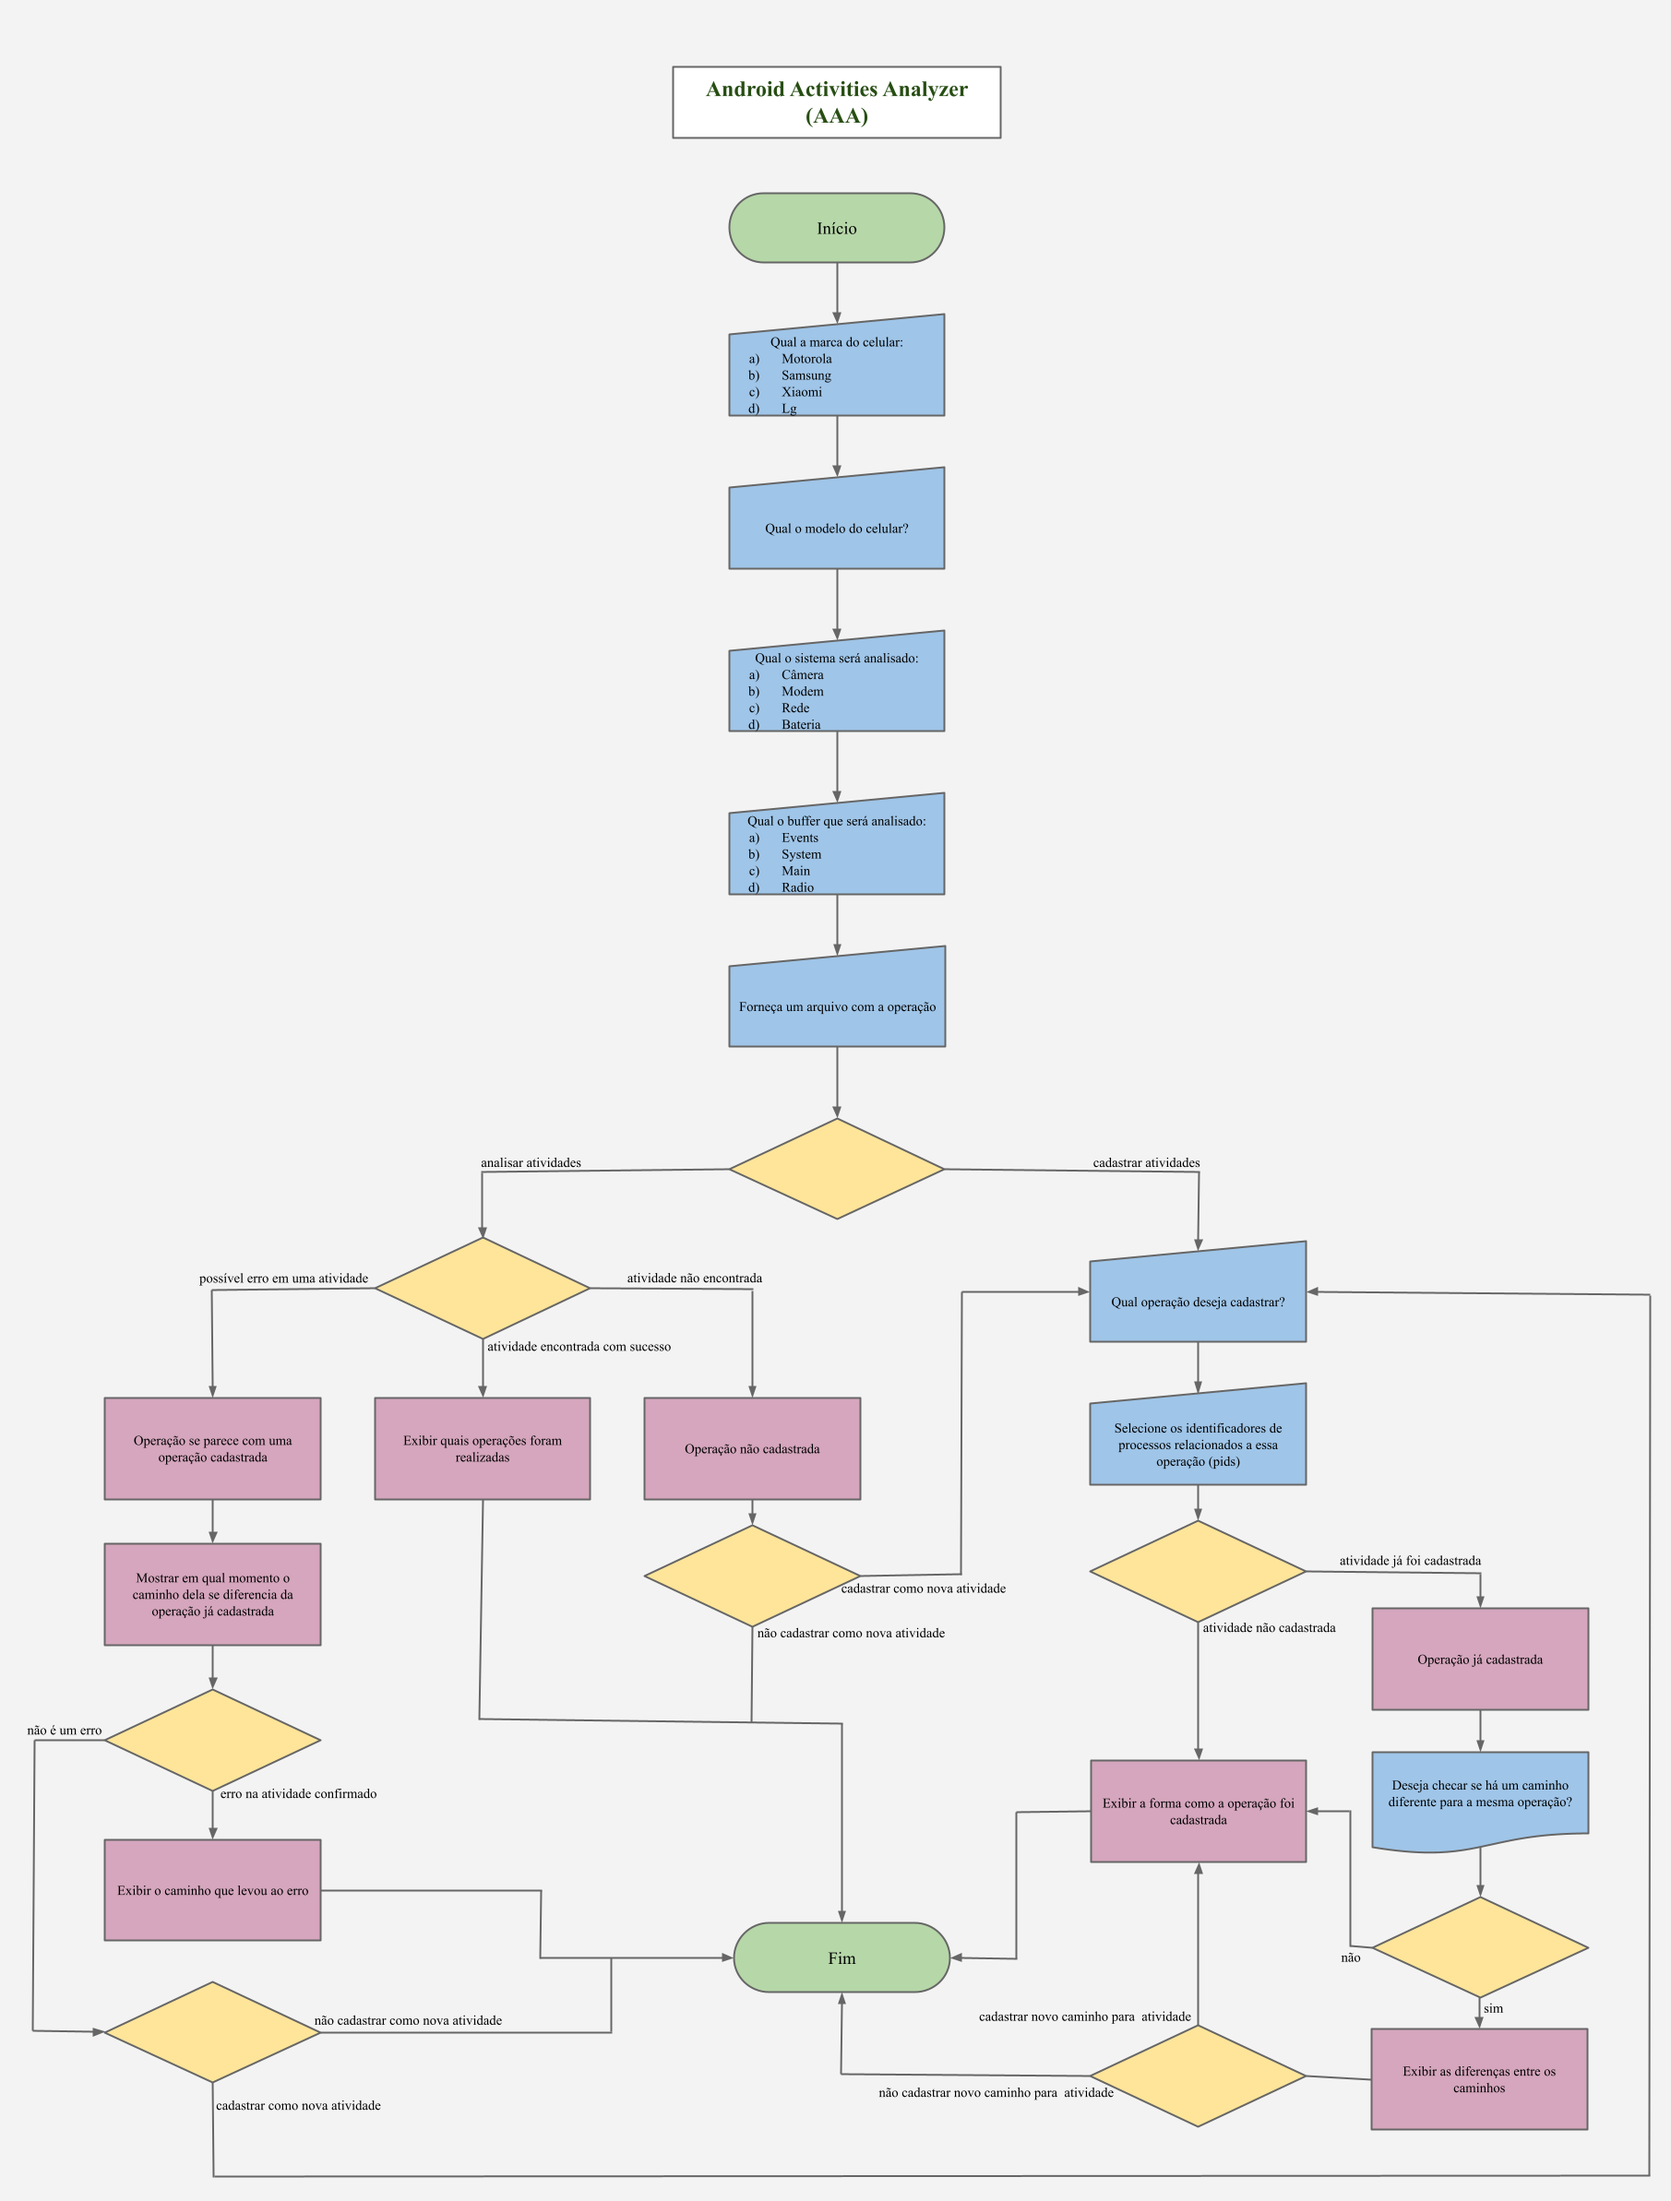
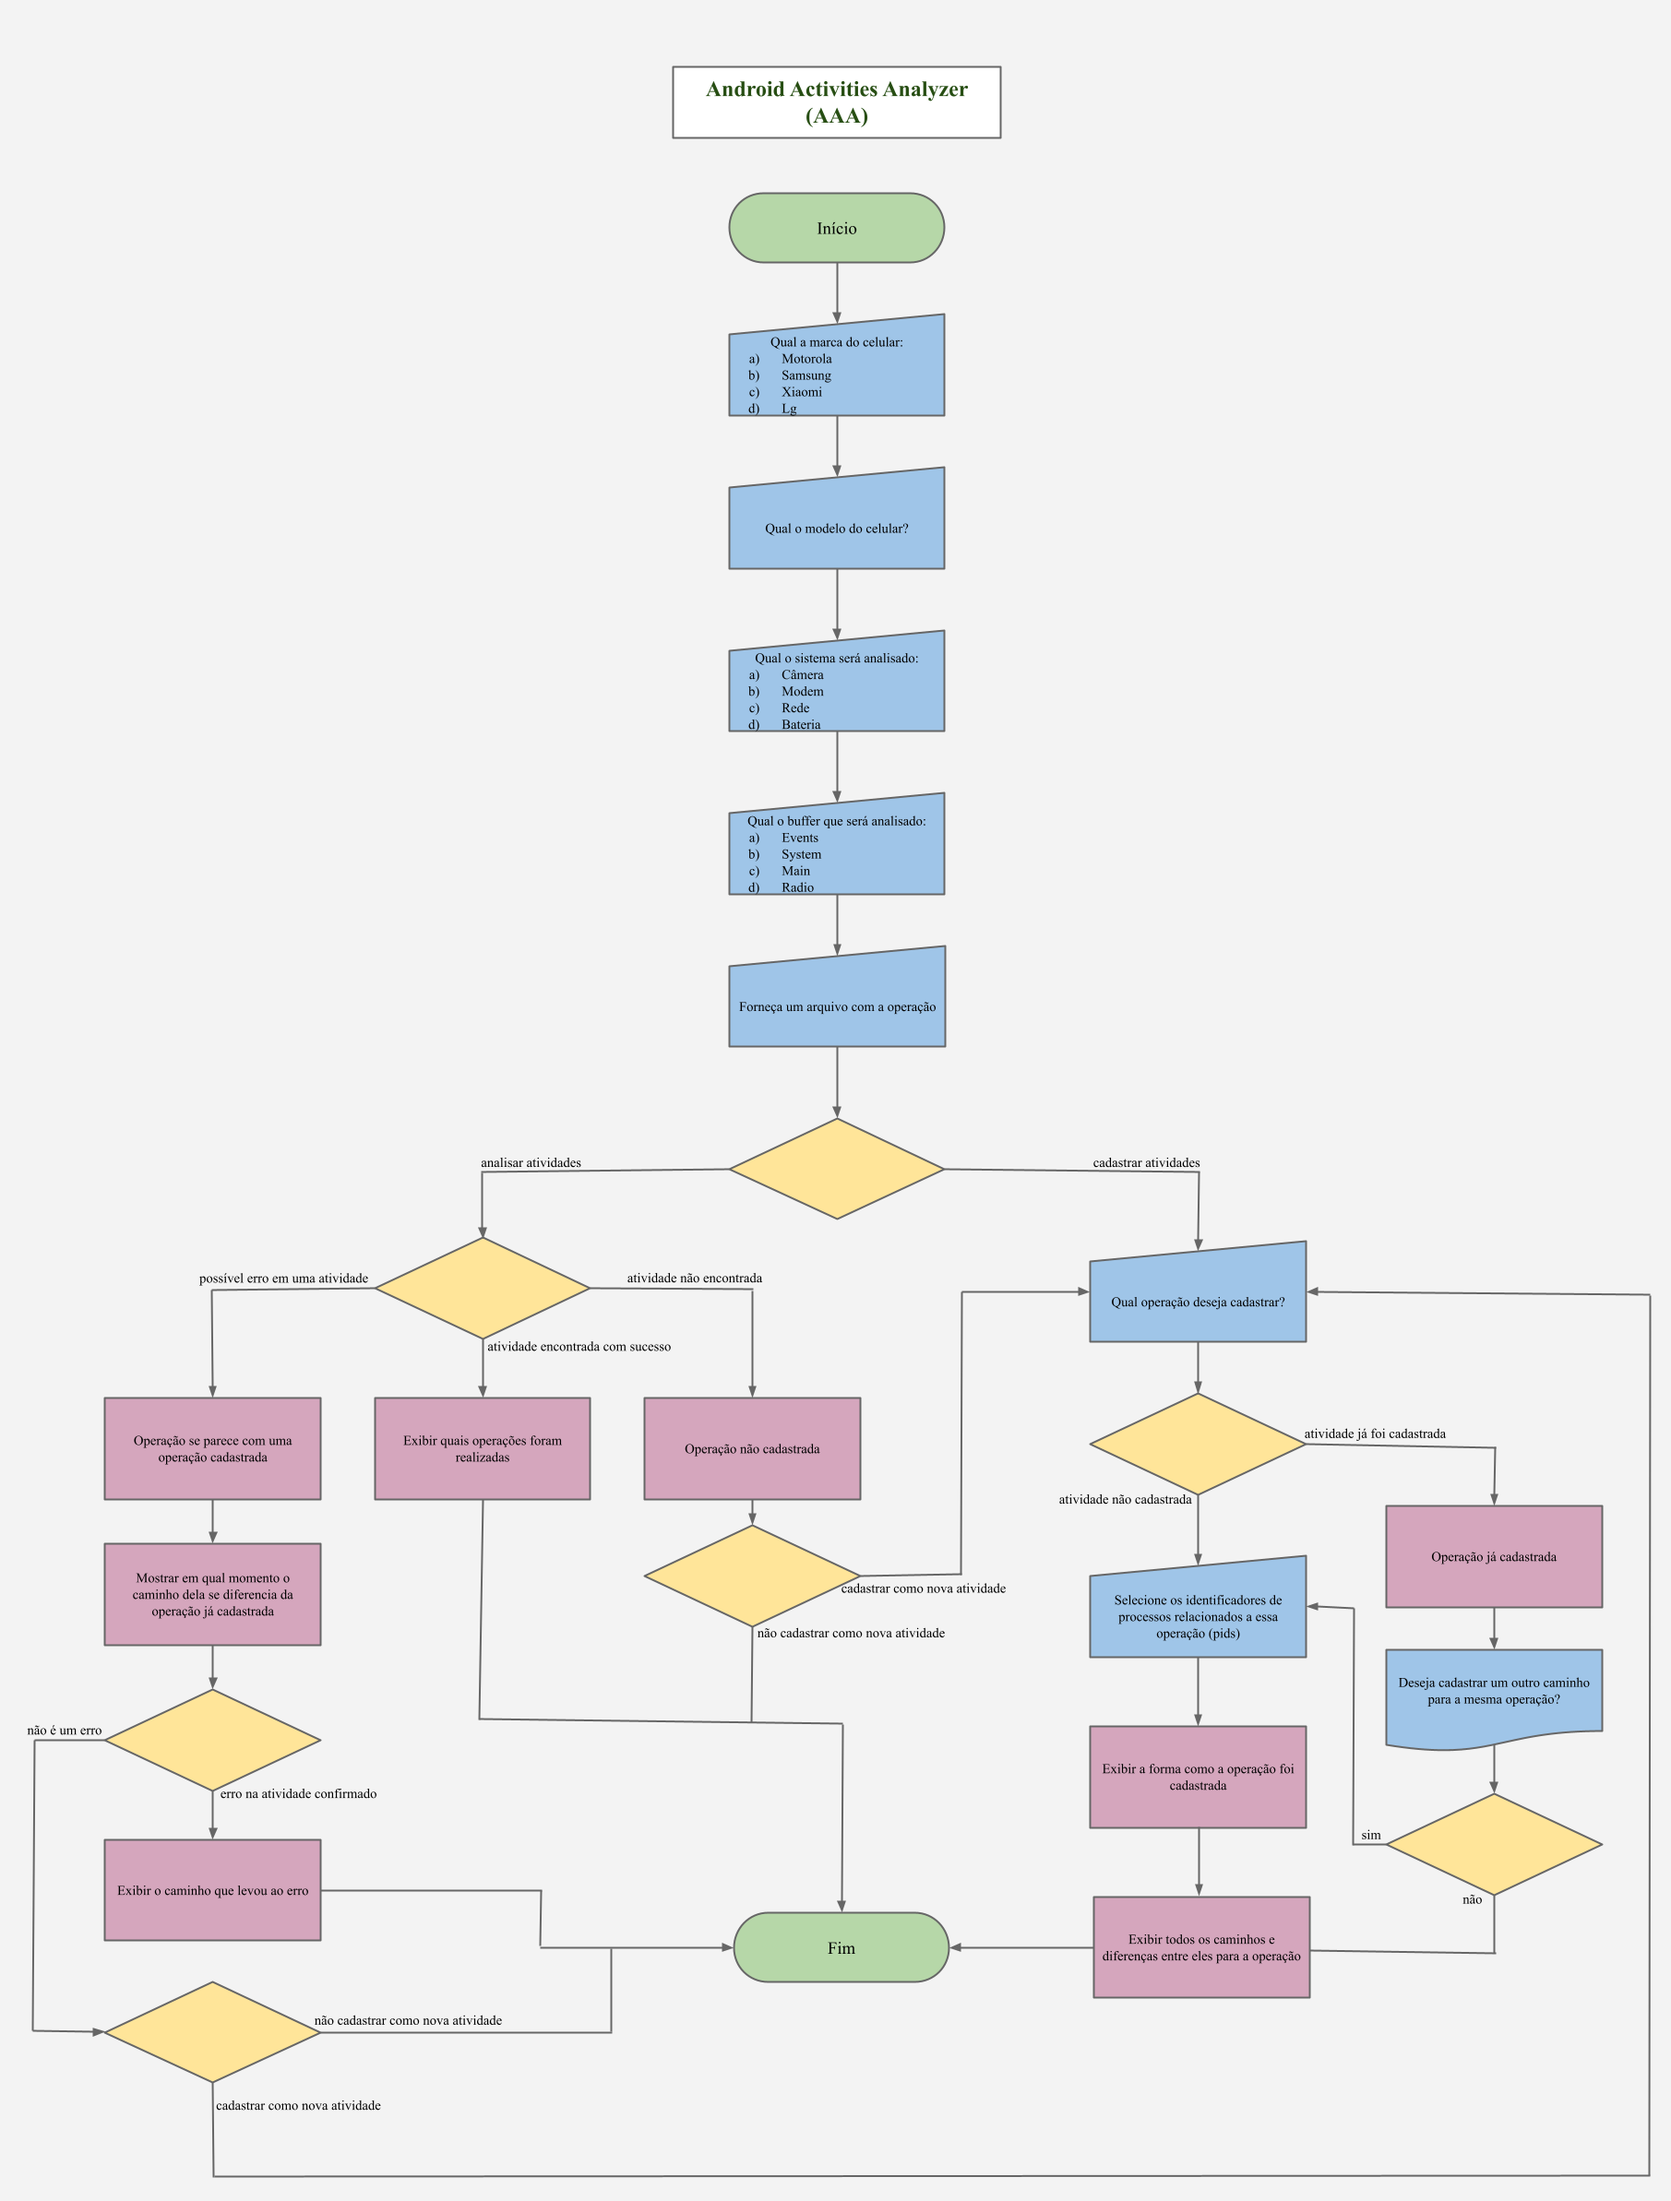
interface can show how activities was registered

Changed region(s): [[0.6494, 0.6203, 0.9586, 0.9925], [0.4329, 0.8684, 0.5875, 0.9304]]

diff --git a/AndroidActivitiesAnalyzer/bin/interface.py b/AndroidActivitiesAnalyzer/bin/interface.py
@@ -12,8 +12,7 @@ import os
 import time
 import traceback
 from turtle import st
-
-from requests import patch
+from igraph import *
 
 # Building screens
 ##################################################################################
@@ -51,7 +50,7 @@ frame.grid_columnconfigure(2, weight=1)
 label = tk.Label(frame, relief = FLAT, text ='Do you want to start Android Activities Analyzer', font = ("Courier", 18), background="#86acac") 
 label.grid(row = 0, column = 0, sticky = N, ipady = 10)
 
-button = tk.Button(frame, background="#86acac", font = ("Courier", 14), text = 'Begin', command = lambda : eigth_screen(root, frame, user_choices))
+button = tk.Button(frame, background="#86acac", font = ("Courier", 14), text = 'Begin', command = lambda : second_screen(root, frame, user_choices))
 button.grid(row = 1, column = 0)
 
 ## 2. Second Screen 
@@ -316,6 +315,7 @@ def sixth_step_algorithm_part2 (mensagem, user_choices, frame):
 
 ## 9. Ninth Screen 
 ##################################################################################
+#https://blog.teclado.com/tkinter-scrollable-frames/
 class ScrollableFrame(Frame):
     def __init__(self, container, *args, **kwargs):
         super().__init__(container, *args, **kwargs)
@@ -341,10 +341,16 @@ class ScrollableFrame(Frame):
         canvas.grid(row = 0, column = 0, sticky = "nsew")
         scrollbar.grid(row = 0, column = 0, sticky = "nsw")
 
-def show_choices(root, frame):
-    print("oi")
+def show_choices(root, frame, ck_var):
+    pids = ""
+    for var in ck_var:
+        var_aux = str(var.get())
+        if "-1" not in var_aux:
+            pids = pids + var_aux + ","
+    pids = pids[:-1]
+    messagebox.showinfo('pop-up info', "Selected pIDs:\n" + pids)
 
-def register_activity(root, frame, ck_var, user_choices):
+def register_activity(root, frame, ck_var, user_choices, label, v_scroll):
     pids = ""
     path = "../config/activities"
     for choice in user_choices:
@@ -357,17 +363,17 @@ def register_activity(root, frame, ck_var, user_choices):
     pids = pids[:-1]
 
     command = "./saida.out 4 " + path + " " + pids
-    print(command)
     stream = os.popen(command)
     output = stream.read()
 
     if "program error" in output:
         messagebox.showerror('pop-up error', str(output))
         finish_program(root, frame)
+    else:
+        tenth_screen (root, frame, user_choices, label, v_scroll)
 
 def ninth_screen (root, old_frame, user_choices):
     old_frame.destroy()
-    ck_button = []
     ck_var = []
     count = 0
 
@@ -381,9 +387,9 @@ def ninth_screen (root, old_frame, user_choices):
     frame.grid(row = 2, column = 2, sticky = "sew")
     frame.grid_columnconfigure(0, weight=1)
     frame.grid_columnconfigure(1, weight=1)
-    button = tk.Button(frame, text = 'Next', font = ("Courier", 12), command = lambda : register_activity(root, frame, ck_var, user_choices))
+    button = tk.Button(frame, text = 'Next', font = ("Courier", 12), command = lambda : register_activity(root, frame, ck_var, user_choices, label, v_scroll))
     button.grid(row = 0, column = 1, sticky = "sew")
-    button = tk.Button(frame, text = 'Show choices', font = ("Courier", 12), command = lambda : show_choices(root, frame))
+    button = tk.Button(frame, text = 'Show pIDs choices', font = ("Courier", 12), command = lambda : show_choices(root, frame, ck_var))
     button.grid(row = 0, column = 0, sticky = "sew")
 
     v_scroll = ScrollableFrame(root)
@@ -413,6 +419,132 @@ def ninth_screen (root, old_frame, user_choices):
             text_ck_button = text_ck_button + "\n" + line
         line = file.readline()
 
+## 10. Tenth Screen 
+##################################################################################
+def tenth_screen (root, old_frame, user_choices, old_label, old_v_scroll) :
+    old_frame.destroy()
+    old_label.destroy()
+    old_v_scroll.destroy()
+
+    path = "../config/activities/"
+    for choice in user_choices:
+        path = path + choice + "/"
+
+    frame = tk.LabelFrame(root, relief = FLAT, background="#86acac")
+    frame.grid(row = 0, column = 1, columnspan = 2, sticky = tk.NSEW)
+    frame.grid_columnconfigure(0, weight=1)
+    frame.grid_columnconfigure(1, weight=1)
+    frame.grid_columnconfigure(2, weight=1)
+
+    frame.grid_rowconfigure(0, weight=0)
+    frame.grid_rowconfigure(1, weight=0)
+    frame.grid_rowconfigure(2, weight=1)
+
+    label = Label(frame, text ='The operation was registered:', font = ("Courier", 18), background="#86acac") 
+    label.grid(row = 0, column = 0, sticky = N, ipady = 10)
+    
+    frame_button = tk.LabelFrame(frame, relief = FLAT, background="#86acac")
+    frame_button.grid(row = 1, column = 0, sticky = "nsew")
+    frame_button.grid_columnconfigure(0, weight=1)
+    frame_button.grid_columnconfigure(1, weight=1)
+
+    button_1 = tk.Button(frame_button, background="#86acac", font = ("Courier", 14), text = 'Show dir tree files', command = lambda : list_files(root, frame, path))
+    button_1.grid(row = 1, column = 0, sticky = "nsew", pady = 2, padx = 10)
+
+    button_2 = tk.Button(frame_button, background="#86acac", font = ("Courier", 14), text = 'Show dir tree graph', command = lambda : print_activity_paths(path, user_choices))
+    button_2.grid(row = 1, column = 1, sticky = "nsew", pady = 2, padx = 10)
+
+    button_3 = tk.Button(frame, background="#86acac", font = ("Courier", 14), text = 'Next', command = lambda : print_activity_paths(path, user_choices))
+    button_3.grid(row = 1, column = 1, sticky = "nsew", pady = 2, padx = 10)
+
+def print_activity_paths(path, user_choices):
+    names = []
+    numbers = []
+    edges = []
+    flag = 0
+
+    names.append(user_choices[-1])
+    numbers.append(flag)
+    dir = activity_paths(path, flag, names, numbers, edges)
+    graph = Graph(n=dir[0], edges=dir[3], directed=True)
+    
+
+    graph.vs["name"] = dir[1]
+    graph.vs["label"] = graph.vs["name"]
+    graph.es["color"] = ["gray"]
+    graph.vs["color"] = ["pink"]
+    graph.vs[0]["color"] = "blue"
+    graph.vs["font"] = "Courier bold"
+    
+    for edge in edges:
+        if 0 in edge:
+            graph.vs[graph.get_eid(edge[0], edge[1]) + 1]["color"] = "lightblue"
+    
+    visual_style = {}
+    visual_style["layout"] = graph.layout_reingold_tilford_circular()
+    visual_style["edge_color"] = graph.es["color"]
+    visual_style["autocurve"] = False
+    visual_style["vertex_size"] = 30
+    visual_style["vertex_label_color"] = "black"
+    visual_style["vertex_label_dist"] = 2
+    visual_style["edge_label_dist"] = -1
+    visual_style["edge_curved"] = 0
+    visual_style["margin"] = 40
+
+    p = Plot(background=(255,255,255), bbox=(1250, 1250), target=None)
+    p.add(graph, **visual_style, bbox=(0,0,1250, 1250), target=None)
+    p.show()
+
+def activity_paths(path, flag, names, numbers, edges) :
+    command = "ls -l " + path + " | grep ^d | rev | cut -d \" \" -f 1 | rev"
+    stream = os.popen(command)
+    output = stream.read()
+
+    ret = []
+    flag_dir = flag
+    dir = ""
+    for out in output :
+        if "\n" not in out:
+            dir = dir + out
+        else:
+            flag += 1
+            names.append(dir)
+            numbers.append(flag)
+            edge = (flag_dir, flag)
+            edges.append(edge)
+            new_path = path + dir + "/"
+
+            ret = activity_paths(new_path, flag, names, numbers, edges)
+            flag = ret[0]
+            names = ret[1]
+            numbers  = ret[2]
+            edges = ret[3]
+            dir = ""
+    
+    ret = []
+    ret.append(flag)
+    ret.append(names)
+    ret.append(numbers)
+    ret.append(edges)
+    return ret
+
+#https://stackoverflow.com/questions/9727673/list-directory-tree-structure-in-python
+def list_files(root, frame, startpath):
+    listbox = Listbox(frame)
+    scrollbar = Scrollbar(frame)
+    listbox.grid(row = 2, column = 0, sticky = "nsew")
+    scrollbar.grid(row = 2, column = 0, sticky = "nse")
+
+    for root, dirs, files in os.walk(startpath):
+        level = root.replace(startpath, '', 1).count(os.sep)
+        indent = ' ' * 6 * (level)
+        txt = str('{}{}/'.format(indent, os.path.basename(root)))
+        listbox.insert(END, txt)
+        
+    listbox.config(yscrollcommand = scrollbar.set)
+    scrollbar.config(command = listbox.yview)
+
+
 # Doing later
 def analyze_step_algorithm (mensagem, user_choices, frame): 
     if verification(mensagem, user_choices) :
@@ -434,7 +566,7 @@ def finish_program (root, old_frame):
 # Common Functions 
 ##################################################################################
 def verification (mensagem, user_choices): 
-    mensagem = str(mensagem)
+    mensagem = str(mensagem.lower())
     msg = "".join(c for c in mensagem if c.isalnum())
     if msg  != "" :
         command_dir = ""
@@ -465,6 +597,8 @@ def finish(root, frame):
         #must need to handle with the error, finish the program
         messagebox.showerror('pop-up error', str(output))
         print(str(output))'''
+
+
 
 # Execute Tkinter
 root.mainloop()

diff --git a/README.md b/README.md
@@ -1,5 +1,8 @@
 # TCC
 
+pip install python-igraph
+pip install cairocffi
+
 ## Functions
 * manageDirectories
 * PidsTidsList
